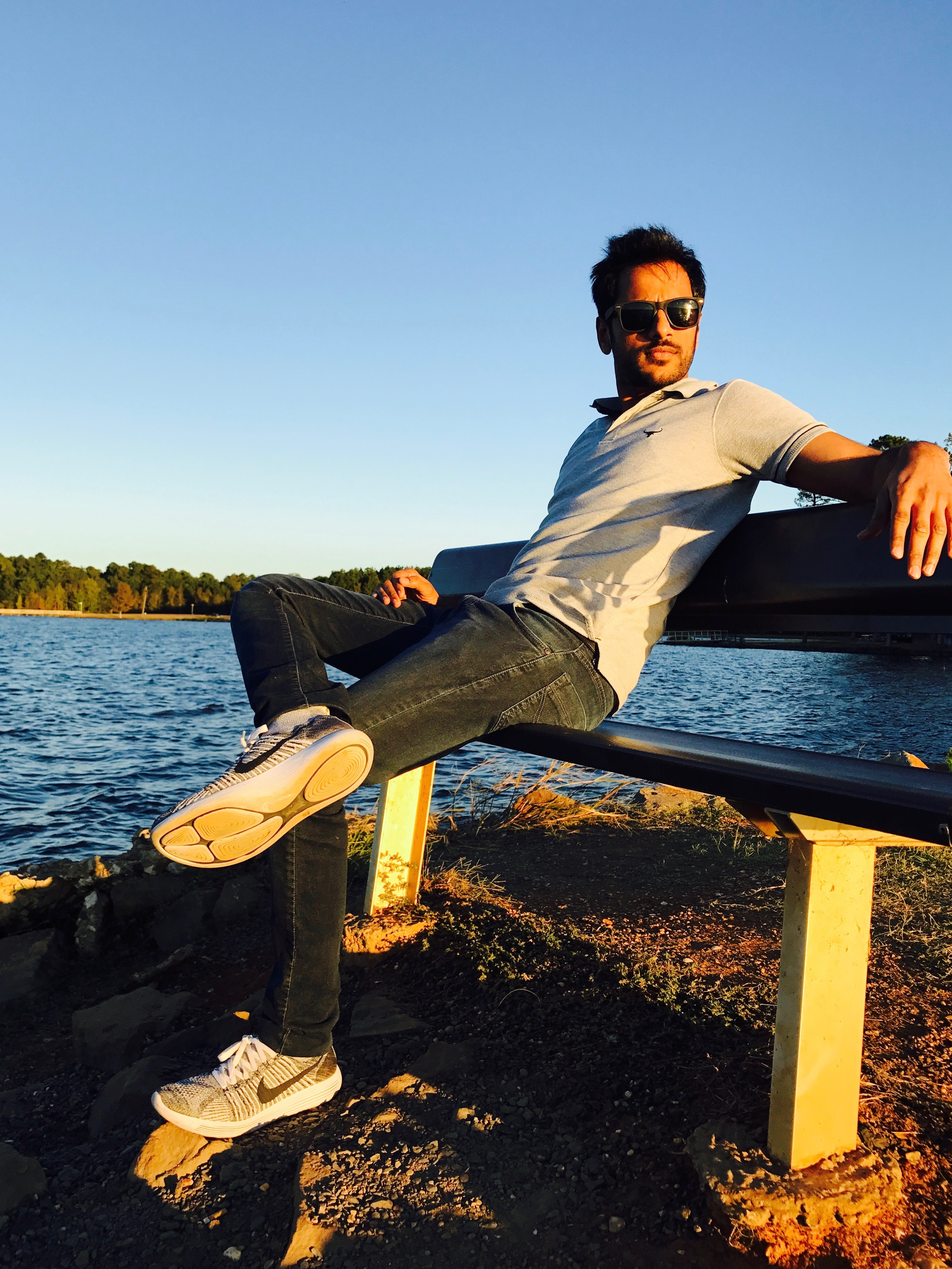
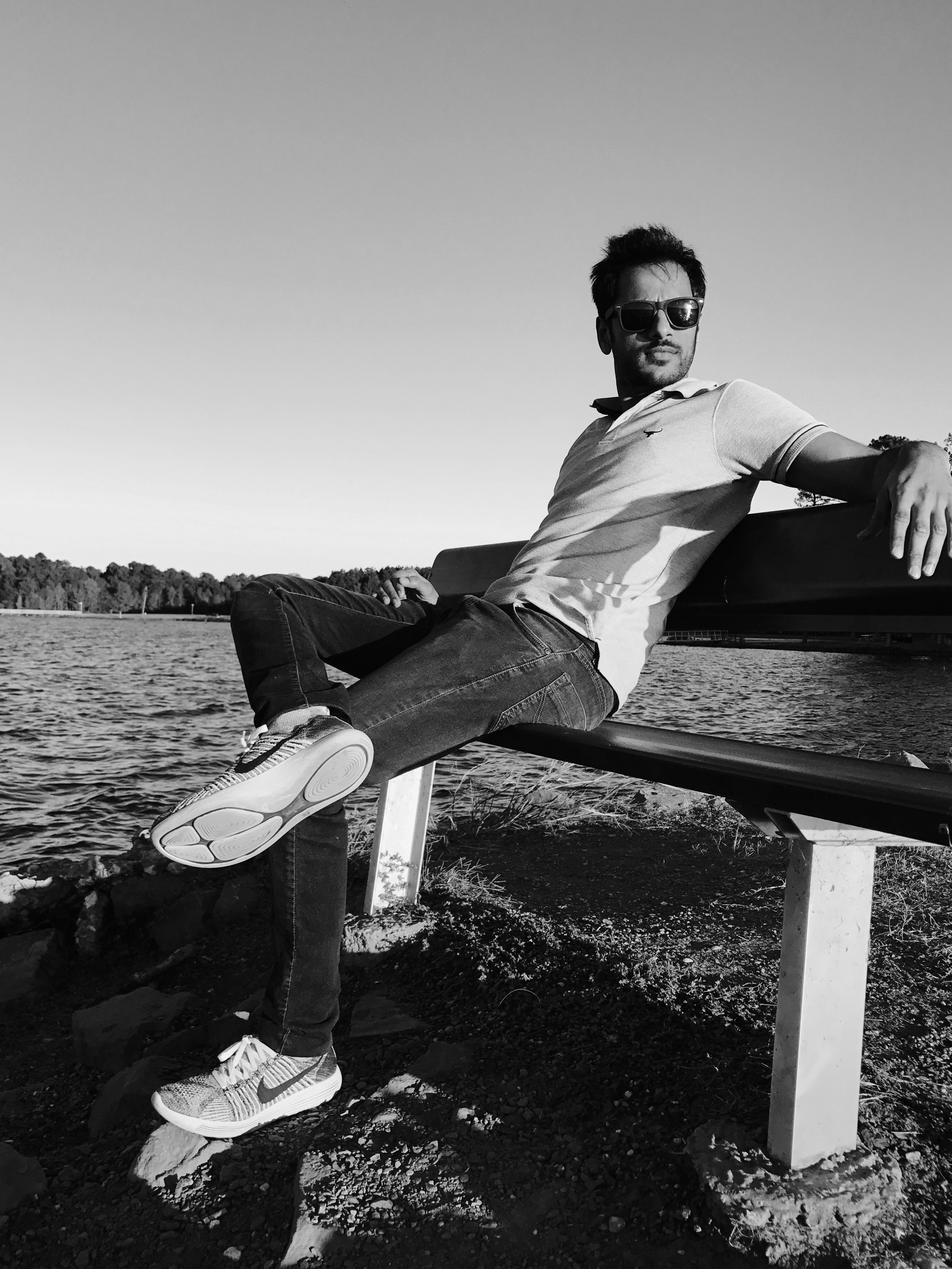
Initial Commit

diff --git a/src/app/Home/home.component.html b/src/app/Home/home.component.html
@@ -1,43 +1,62 @@
-
-<div id="portfolio">
-<div id="profile">
-    <h1 class="welcome">{{message}}</h1>
-    <p class="summary">{{summary}}</p>
-    <img id="profImage" class="img-circle" src="../../arjun.JPG" />
-    <div class="row">
-        <div id="externurls">
-            <a class="fa fa-facebook" target="_blank" href="https://facebook.com"></a>
-            <a class="fa fa-linkedin" target="_blank" href="https://www.linkedin.com/in/arjun-bollam-3a558558/"></a>
-            <a class="fa fa-google" target="_blank" href="https://google.com"></a>
-        </div>
-    </div>
-
-    <div id="caption">LOGICALLY MINDED // CREATIVE AT HEART</div>
-</div>
-<div class="section-title">
-
-    <h3>About Me</h3>
-</div>
-<div id="Venn">
-    <div id="creative">
-        <div id="text1">
-            Creative
-        </div>
-    </div>
-    <div id="random">
-        <div id="text2">
-            Random
-        </div>
-    </div>
-    <div id="diggingdeeper">
-        <div id="text3">
-            Digging Deeper
-        </div>
-    </div>
-</div>
-<div>
-    <p style="float:right">
-        I am a Sofware developer with over 5 years of experince.
-    </p>
-</div>
+<div class="container-fluid">
+    <div class="col-md-12 col-sm-12 col-xs-12">
+            <div id="portfolio">
+    
+                    <div id="profile">
+                        <h1 class="welcome">{{message}}</h1>
+                        <p class="summary">{{summary}}</p>
+                        <div class="row">
+                             <img id="profImage" class="img-circle" src="../../arjun.JPG" />
+                        </div>
+                        
+                            <div class="row">
+                                <div id="externurls">
+                                    <a class="fa fa-facebook" target="_blank" href="https://www.facebook.com/arjunbollam"></a>
+                                    <a class="fa fa-linkedin" target="_blank" href="https://www.linkedin.com/in/arjun-bollam-3a558558/"></a>
+                                    <a class="fa fa-google" target="_blank" href="https://google.com"></a>
+                                </div>
+                            </div>
+                        
+                        <div class="clearfix">
+                        <div class="col-md-12 col-sm-12 col-xs-12" >
+                            <div class="row" id="caption">
+                                LOGICALLY MINDED // CREATIVE AT HEART
+                            </div>
+                        </div>
+                    </div>
+                    </div>
+                    <div class="col-md-12 col-sm-12 col-xs-12">
+                    <div class="row">
+                        <div class="section-title">
+                    
+                            <h3>About Me</h3>
+                        </div>
+                    </div>
+                    <div class="row">
+                        <div id="Venn">
+                            <div id="creative">
+                                <div id="text1">
+                                    Creative
+                                </div>
+                            </div>
+                            <div id="random">
+                                <div id="text2">
+                                    Random
+                                </div>
+                            </div>
+                            <div id="diggingdeeper">
+                                <div id="text3">
+                                    Digging Deeper
+                                </div>
+                            </div>
+                        </div>
+                    </div>
+                    </div>
+                    <div>
+                        <p style="float:right">
+                            I am a Sofware developer with over 5 years of experince.
+                        </p>
+                    </div>
+                    </div>
+    </div>      
 </div>

diff --git a/src/app/Home/home.component.css b/src/app/Home/home.component.css
@@ -23,16 +23,22 @@ p{
 
 .fa-facebook {
     background: #3B5998;
-    color: white
+    color: white;
+    -webkit-filter: grayscale(100%);
+    filter:grayscale(100%);
 }
 
 .fa-linkedin {
     background: #007bb5;
     color: white;
+    -webkit-filter: grayscale(100%);
+    filter:grayscale(100%);
 }
 .fa-google {
     background: red;
     color: white;
+    -webkit-filter: grayscale(100%);
+    filter:grayscale(100%);
 }
 
 @keyframes bounceIn{
@@ -102,11 +108,12 @@ p{
    width:86px;
    position: relative;
    left: 450px;
-   border: 1px solid black;
+   /* border: 1px solid black; */
    padding-left: 2px;
    margin: 1px;
-   overflow: hidden;
+   overflow: scroll;
 }
+
 a {
     display: inline;
     color: black;
@@ -128,6 +135,11 @@ a {
     margin:auto;
     display: block;
 }
+@media (max-width: 480px){
+    #caption{
+        height: 90px;
+    }
+ }
 
 #profile{
     width:100%;

diff --git a/src/app/app.module.ts b/src/app/app.module.ts
@@ -4,17 +4,15 @@ import { NgModule } from '@angular/core';
 
 import { AppComponent } from './app.component';
 import { HomeComponent } from './Home/home.component';
-import { PortfolioComponent } from './Portfolio/portfolio.component';
 import { PageService } from './page.service';
 import { MovieListComponent } from './Movies/movie-list.component';
 
 @NgModule({
   declarations: [
-    AppComponent, HomeComponent, PortfolioComponent, MovieListComponent
+    AppComponent, HomeComponent, MovieListComponent
   ],
   imports: [
     BrowserModule, RouterModule.forRoot([
-      {path : 'portfolio', component: PortfolioComponent },
       {path: 'home', component: HomeComponent},
       {path: '', redirectTo: 'home', pathMatch: 'full'}
     ])

diff --git a/src/app/app.component.html b/src/app/app.component.html
@@ -15,7 +15,7 @@
 
 <div class="collapse navbar-collapse" id="myNavbar">
 <ul class="nav navbar-nav navbar-right">
- <li><a [routerLink]="['/home']">Inner Consciousness</a></li>
+ <li><a [routerLink]="['/home']">My Adventures</a></li>
  <li><a [routerLink]="['/home']">Home</a></li>
  <li><a [routerLink]="['/portfolio']">Portfolio</a></li>
  <li><a [routerLink]="['/home']">Contact</a></li>
